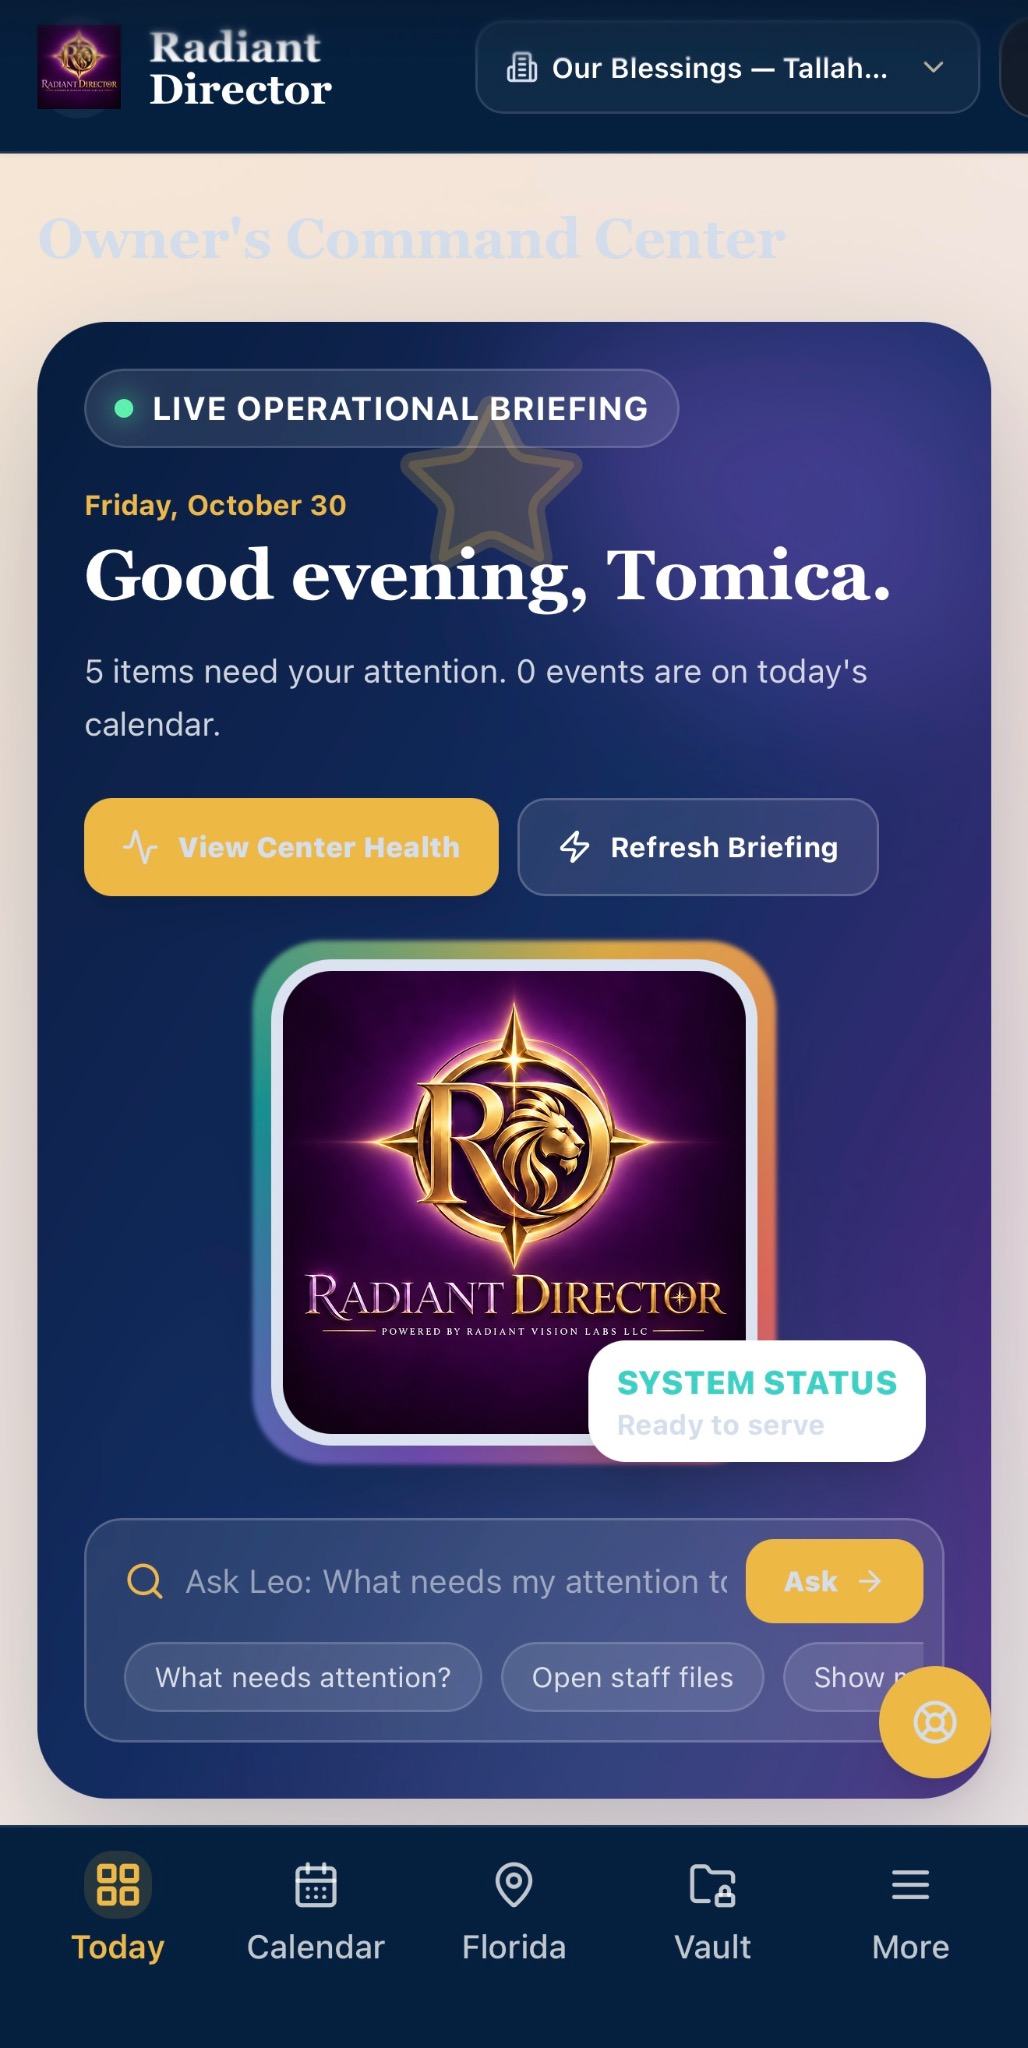
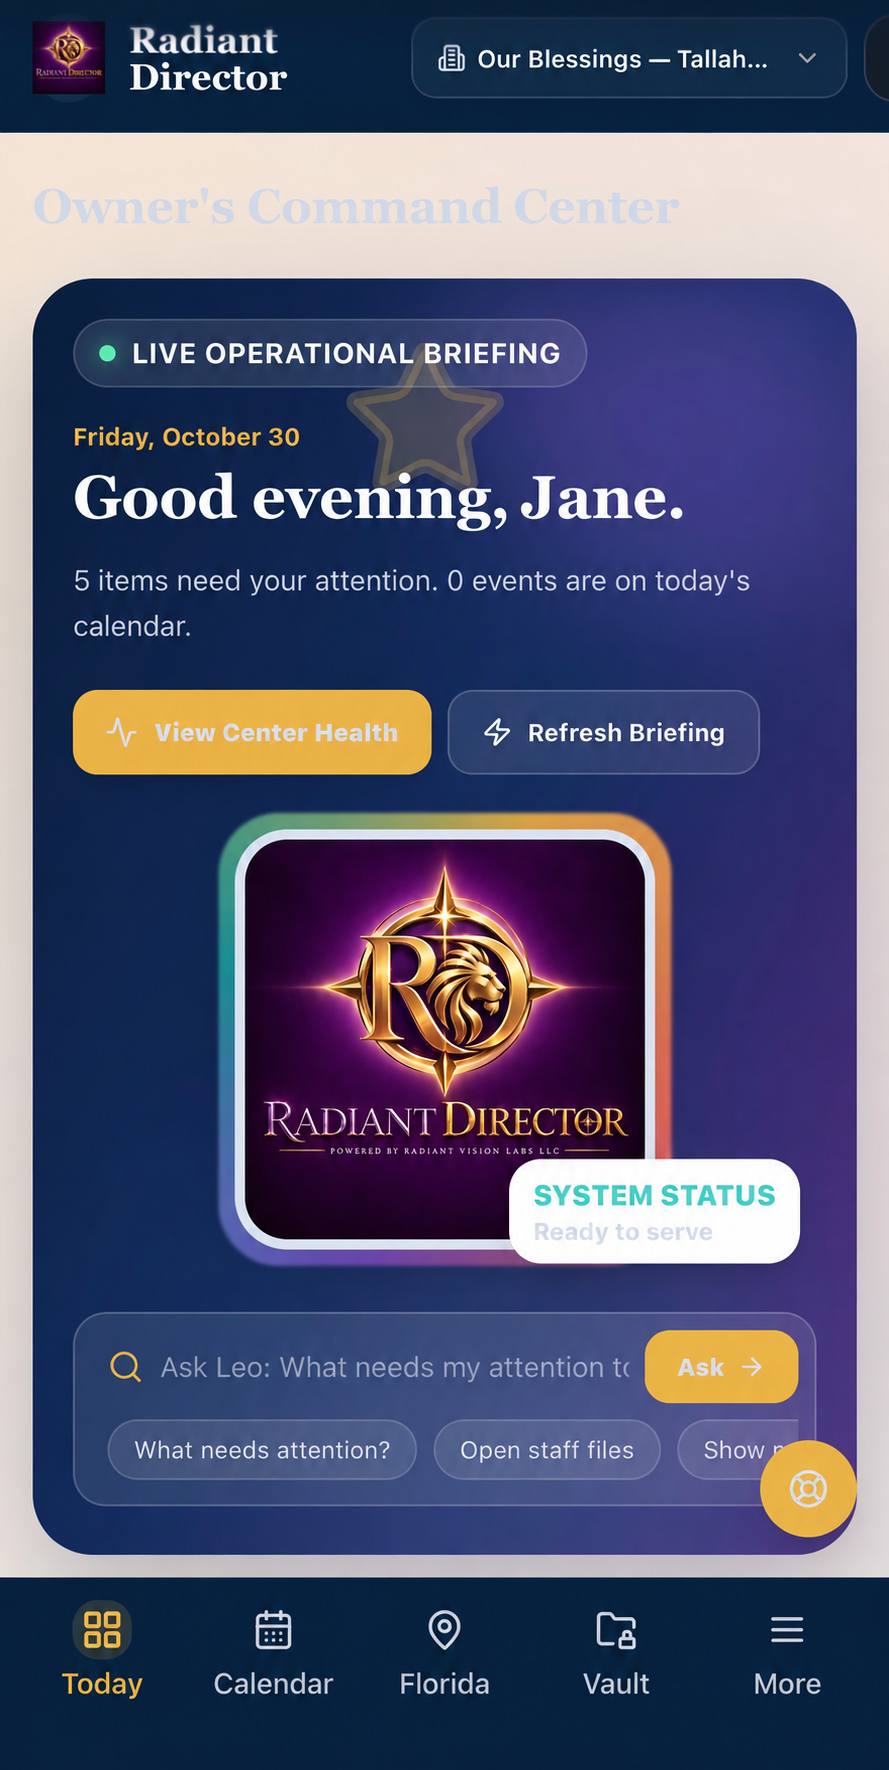
Use generic Jane greeting in welcome marketing capture

diff --git a/radiant-director-studio/SOURCE_NOTES.md b/radiant-director-studio/SOURCE_NOTES.md
@@ -1,10 +1,10 @@
 # Radiant Director App Store collection
 
-Six-screen iPhone collection using authentic user-supplied mobile captures from October 30–31, 2026. Original source pixels are preserved; JPEG captures are converted to RGB PNG without retouching app content.
+Six-screen iPhone collection using authentic user-supplied mobile captures from October 30–31, 2026. The welcome screenshot uses the generic demo name Jane in its greeting, edited with the built-in image editor. The remaining source captures are unretouched; JPEG captures are converted to RGB PNG.
 
 | Screen | Source | Feature |
 |---|---|---|
-| 1 | IMG_5340.jpeg | CENTER LEADERSHIP |
+| 1 | IMG_5340.jpeg (demo-name edit: Jane) | CENTER LEADERSHIP |
 | 2 | IMG_5358.jpeg | DAILY PLANNING |
 | 3 | IMG_5353.png | STAFF SUPPORT |
 | 4 | IMG_5346.jpeg | ASK JAG |
